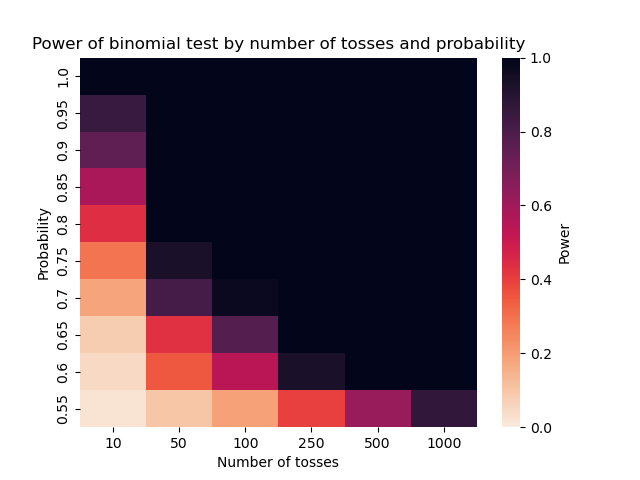
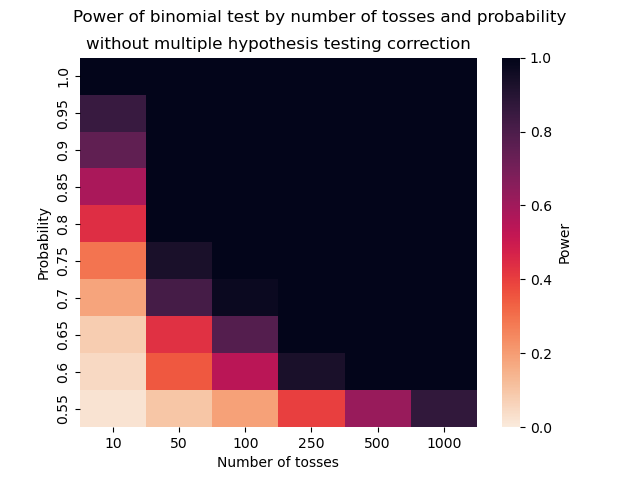
added supertitles to figures

Changed region(s): [[0.0312, 0.0, 0.875, 0.125]]

diff --git a/day4-homework/binomial_power_interactive_lecture.py b/day4-homework/binomial_power_interactive_lecture.py
@@ -115,17 +115,23 @@ def run_experiment(n_iters = 100, seed = 389, correct_the_pvalues = False):
     ax.set_xlabel("Number of tosses")
     ax.set_ylabel("Probability")
 
+    filename_corrected = ""
+    title_corrected = "out"
+    if correct_the_pvalues:
+        filename_corrected += "_corrected"
+        title_corrected = ""
+
     # set title
-    plt.title("Power of binomial test by number of tosses and probability")
+    plt.suptitle("Power of binomial test by number of tosses and probability")
+    plt.title("with" + title_corrected + 
+                " multiple hypothesis testing correction")
 
     # creating string variable to change the file name depending on whether
     # p-values are corrected or not
-    corrected = ""
-    if correct_the_pvalues:
-        corrected += "_corrected"
+
 
     # save the figure(s)
-    plt.savefig("power_heatmap" + corrected + ".png")
+    plt.savefig("power_heatmap" + filename_corrected + ".png")
 
 run_experiment()
 run_experiment(correct_the_pvalues = True)
